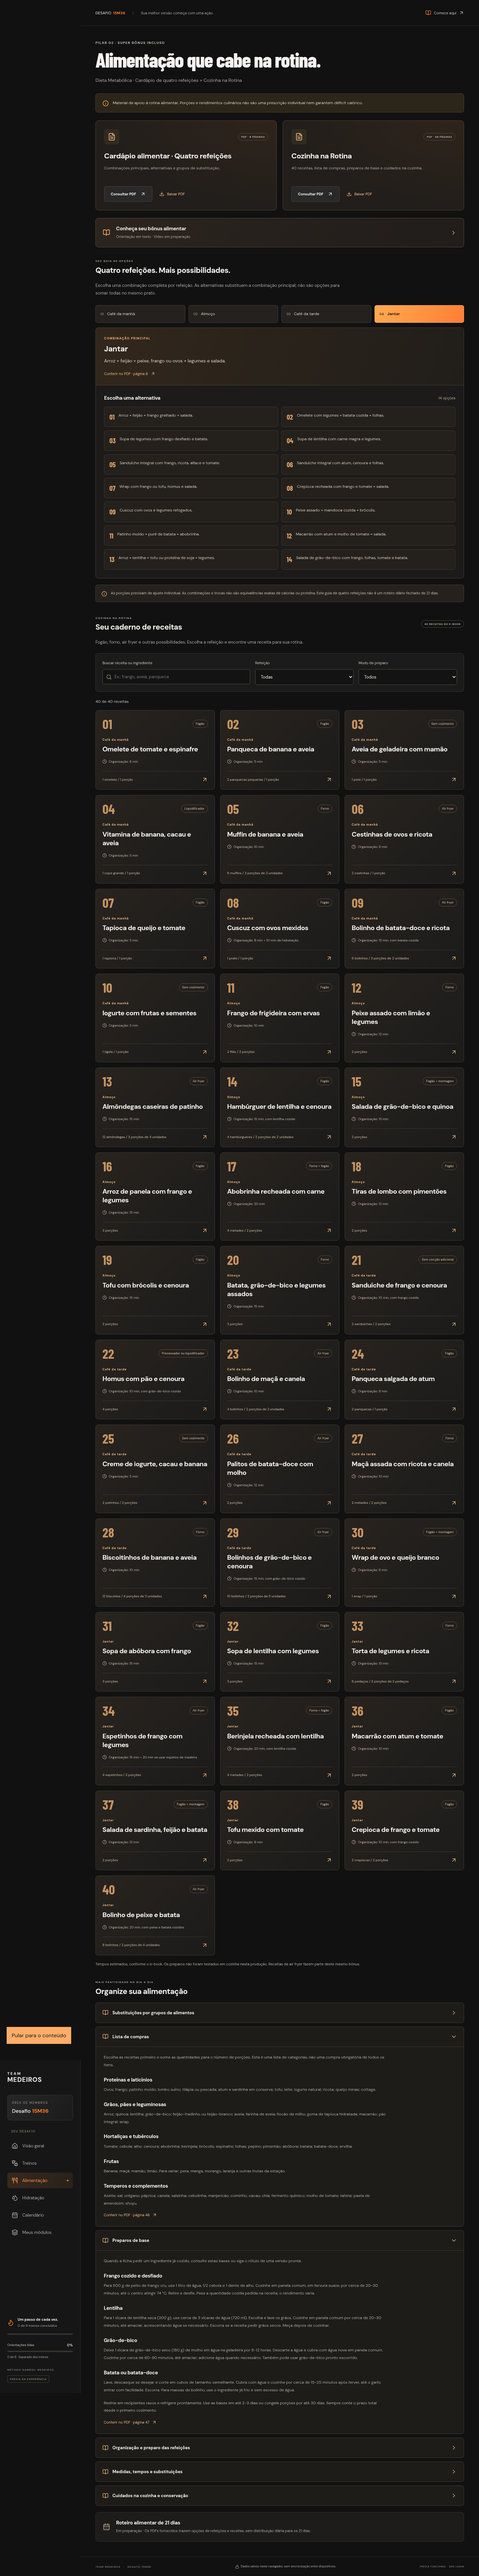
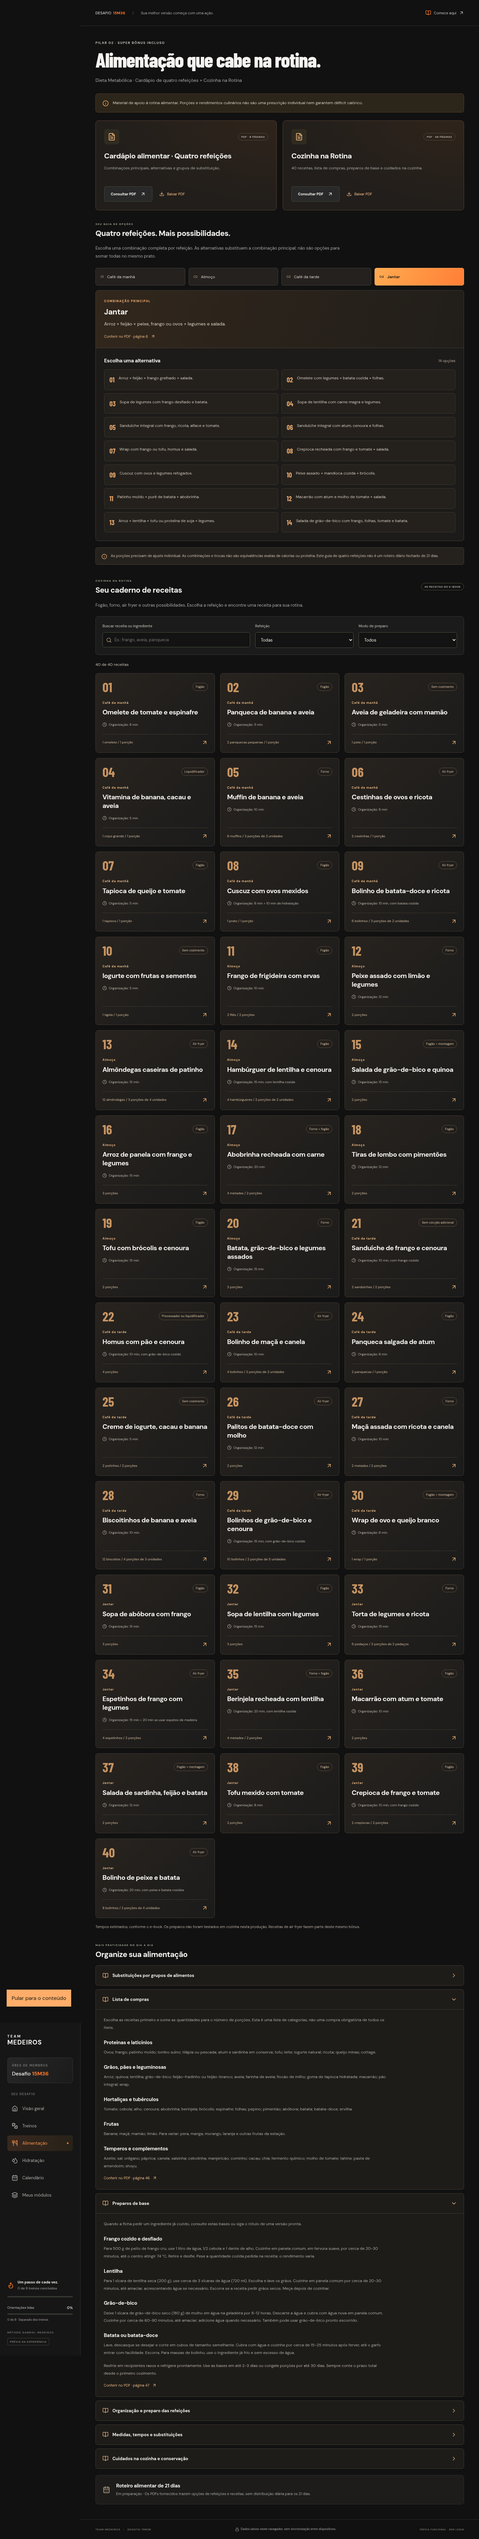
Move food bonus introduction into Comece aqui module

diff --git a/src/content.js b/src/content.js
@@ -65,6 +65,12 @@ export const intro = [
     title: "Como iniciar e adaptar com segurança",
     text: "Respeite seus limites e prepare um espaço livre e seguro. Se sentir dor ou mal-estar, interrompa a atividade e procure orientação profissional. Exercícios e adaptações específicos ainda serão fornecidos.",
   },
+  {
+    id: "bonus-alimentar",
+    title: "Conheça seu bônus alimentar",
+    module: "comece",
+    text: "A Dieta Metabólica reúne os espaços para roteiro alimentar, receitas, substituições econômicas, lista de compras e preparo das refeições. As receitas de air fryer fazem parte deste mesmo conjunto. Consulte o cardápio de quatro refeições e as 40 receitas do e-book Cozinha na Rotina. Eles incluem substituições, lista de compras, preparos de base e orientações de conservação. O roteiro diário de 21 dias continua em preparação. Este bônus é educativo e não substitui uma prescrição alimentar individual.",
+  },
 ];
 export const modules = [
   {
@@ -95,12 +101,6 @@ export const modules = [
 ];
 
 export const complementary = [
-  {
-    id: "bonus-alimentar",
-    title: "Conheça seu bônus alimentar",
-    module: "alimentacao",
-    text: "A Dieta Metabólica reúne os espaços para roteiro alimentar, receitas, substituições econômicas, lista de compras e preparo das refeições. As receitas de air fryer fazem parte deste mesmo conjunto. Consulte o cardápio de quatro refeições e as 40 receitas do e-book Cozinha na Rotina. Eles incluem substituições, lista de compras, preparos de base e orientações de conservação. O roteiro diário de 21 dias continua em preparação. Este bônus é educativo e não substitui uma prescrição alimentar individual.",
-  },
   {
     id: "encerramento",
     title: "Dia 21 · Encerramento",

diff --git a/tests/reference.spec.js b/tests/reference.spec.js
@@ -44,7 +44,13 @@ test("reference module covers and interactive 21-day explorer", async ({
       () => JSON.parse(localStorage.getItem("15m36:member:v1")).completed,
     ),
   ).toEqual([]);
-  await page.goto("/#/aula/bonus-alimentar");
+  await page.goto("/#/modulo/comece");
+  await expect(page.locator(".resource-list > .resource")).toHaveCount(7);
+  await page.getByRole("link", { name: /Conheça seu bônus alimentar/ }).click();
+  await expect(page.locator("h1")).toHaveText("Conheça seu bônus alimentar");
+  await expect(
+    page.getByRole("heading", { name: "Vídeo em preparação" }),
+  ).toBeVisible();
   await page
     .getByRole("button", { name: "Marcar orientação como lida" })
     .click();
@@ -60,7 +66,24 @@ test("reference module covers and interactive 21-day explorer", async ({
   await page
     .getByRole("link", { name: "Voltar ao módulo", exact: true })
     .click();
-  await expect(page).toHaveURL(/modulo\/alimentacao$/);
+  await expect(page).toHaveURL(/modulo\/comece$/);
+  await expect(
+    page.getByText(
+      "1 de 7 orientações lidas · Progresso independente dos treinos.",
+    ),
+  ).toBeVisible();
+  await page.screenshot({
+    path: `artifacts/${info.project.name}-comece-aqui-bonus-alimentar.png`,
+    fullPage: true,
+  });
+  for (const path of ["/alimentacao", "/modulo/alimentacao"]) {
+    await page.goto("/#" + path);
+    await expect(
+      page.getByRole("link", { name: /Conheça seu bônus alimentar/ }),
+    ).toHaveCount(0);
+    await expect(page.locator(".document-card")).toHaveCount(2);
+    await expect(page.locator(".recipe-card")).toHaveCount(40);
+  }
   await page.goto("/");
   await page.screenshot({
     path: `artifacts/${info.project.name}-modelo-video.png`,

diff --git a/src/App.jsx b/src/App.jsx
@@ -416,8 +416,9 @@ export default function App() {
               ))}
             </div>
             <p className="muted">
-              {intro.filter((l) => state.lessons.includes(l.id)).length} de 6
-              orientações lidas · Progresso independente dos treinos.
+              {intro.filter((l) => state.lessons.includes(l.id)).length} de{" "}
+              {intro.length} orientações lidas · Progresso independente dos
+              treinos.
             </p>
             <Button to="/treinos">Conhecer os treinos</Button>
           </>

diff --git a/src/pages/Food.jsx b/src/pages/Food.jsx
@@ -216,14 +216,6 @@ export default function Food() {
         </span>
       </div>
       <FoodDownloads />
-      <Link className="resource bonus-orientation" to="/aula/bonus-alimentar">
-        <BookOpen size={22} />
-        <div>
-          <h3>Conheça seu bônus alimentar</h3>
-          <p>Orientação em texto · Vídeo em preparação</p>
-        </div>
-        <ChevronRight size={19} />
-      </Link>
       <MealPlan />
       <section aria-labelledby="recipes-heading" className="recipe-library">
         <div className="section-heading">

diff --git a/docs/VALIDACAO.md b/docs/VALIDACAO.md
@@ -80,3 +80,11 @@ Execução final: **31 testes aprovados e 3 ignorados intencionalmente** (menu m
 Capturas: `artifacts/*-visao-geral-primeiro-acesso.png` e `artifacts/*-visao-geral-apos-inicio.png`. Os dois estados desktop foram inspecionados visualmente.
 
 O build `3d894731009c1bb7e048210b9e68d0e3d42aeaf5` foi confirmado como `built` no mesmo endereço público. Os 18 arquivos publicados foram conferidos por HTTPS com verificação TLS ativa e SHA-256 idêntico ao build validado localmente.
+
+## Aula de apresentação alimentar em Comece aqui
+
+“Conheça seu bônus alimentar” foi movida para Comece aqui como sétima orientação. Seu ID e endereço `/#/aula/bonus-alimentar` foram preservados, bem como os registros de leitura existentes. O retorno da aula aponta para Comece aqui. O total global continua sendo oito orientações: sete introdutórias e o encerramento; o contador interno de Comece aqui é derivado da quantidade de aulas. O vídeo não foi fornecido e continua como “Vídeo em preparação”.
+
+O acesso foi removido das duas entradas da página Alimentação (menu e módulo alimentar), sem alterar os PDFs, cardápio, receitas, filtros ou início do desafio. Foram executados os testes existentes de referência/navegação e de alimentação em desktop e celular: **8 aprovados**. Incluem a nova localização, retorno ao módulo, persistência da leitura, contador de sete aulas, ausência do link na alimentação, 40 receitas e integridade dos downloads. Capturas: `artifacts/*-comece-aqui-bonus-alimentar.png`.
+
+A publicação `733c6ac113292943dc19d5f319dfacef943a389d` foi confirmada como `built` no mesmo endereço. Os 18 arquivos públicos tiveram SHA-256 idêntico ao build validado, via HTTPS com verificação TLS ativa.

diff --git a/docs/CONTEUDO.md b/docs/CONTEUDO.md
@@ -4,7 +4,7 @@
 
 Os dados dos módulos e treinos continuam em `src/content.js`. Preserve os IDs. Copie um vídeo autorizado para `public/media/` e configure `video` no treino com o caminho relativo. Sem URL, a tela mantém “Vídeo em preparação”. Insira apenas os cinco exercícios reais aprovados em `exercises`.
 
-As seis orientações estão em `intro`. `complementary` centraliza a apresentação do bônus e o encerramento, com progresso separado dos treinos. Os vídeos introdutórios precisam de campo e renderização próprios quando forem fornecidos; ler texto não equivale a assistir vídeo. Capas e calendário demonstrativo estão em `moduleCovers` e `calendarDays`.
+As sete orientações de Comece aqui estão em `intro`, incluindo “Conheça seu bônus alimentar”. `complementary` mantém o encerramento. O progresso das orientações continua separado dos treinos. Os vídeos introdutórios precisam de campo e renderização próprios quando forem fornecidos; ler texto não equivale a assistir vídeo. Capas e calendário demonstrativo estão em `moduleCovers` e `calendarDays`.
 
 ## Alimentação
 

diff --git a/README.md b/README.md
@@ -45,6 +45,8 @@ Os dados ficam no `localStorage`, chave `15m36:member:v1`. A água é separada p
 
 ## Conteúdos
 
+A aula “Conheça seu bônus alimentar” fica em Comece aqui, junto das outras seis orientações. A página Alimentação concentra os materiais e as ferramentas alimentares.
+
 O bônus alimentar inclui o cardápio de quatro refeições e as 40 receitas do e-book Cozinha na Rotina enviados pelo responsável. Os dois PDFs podem ser consultados e baixados. A biblioteca tem busca e filtros; as fichas mantêm ingredientes, quantidades, tempos, conservação e alergênicos. As listas de compras, bases de preparo e substituições dos documentos também estão disponíveis. Consulte `docs/ALIMENTACAO.md`.
 
 Vídeos, exercícios específicos e o roteiro alimentar diário de 21 dias continuam em preparação. O cardápio é um guia de opções de quatro refeições, sem prescrição individual. O material não afirma testes em cozinha ou validação nutricional. Os adicionais não concedem direitos de acesso nesta prévia.
